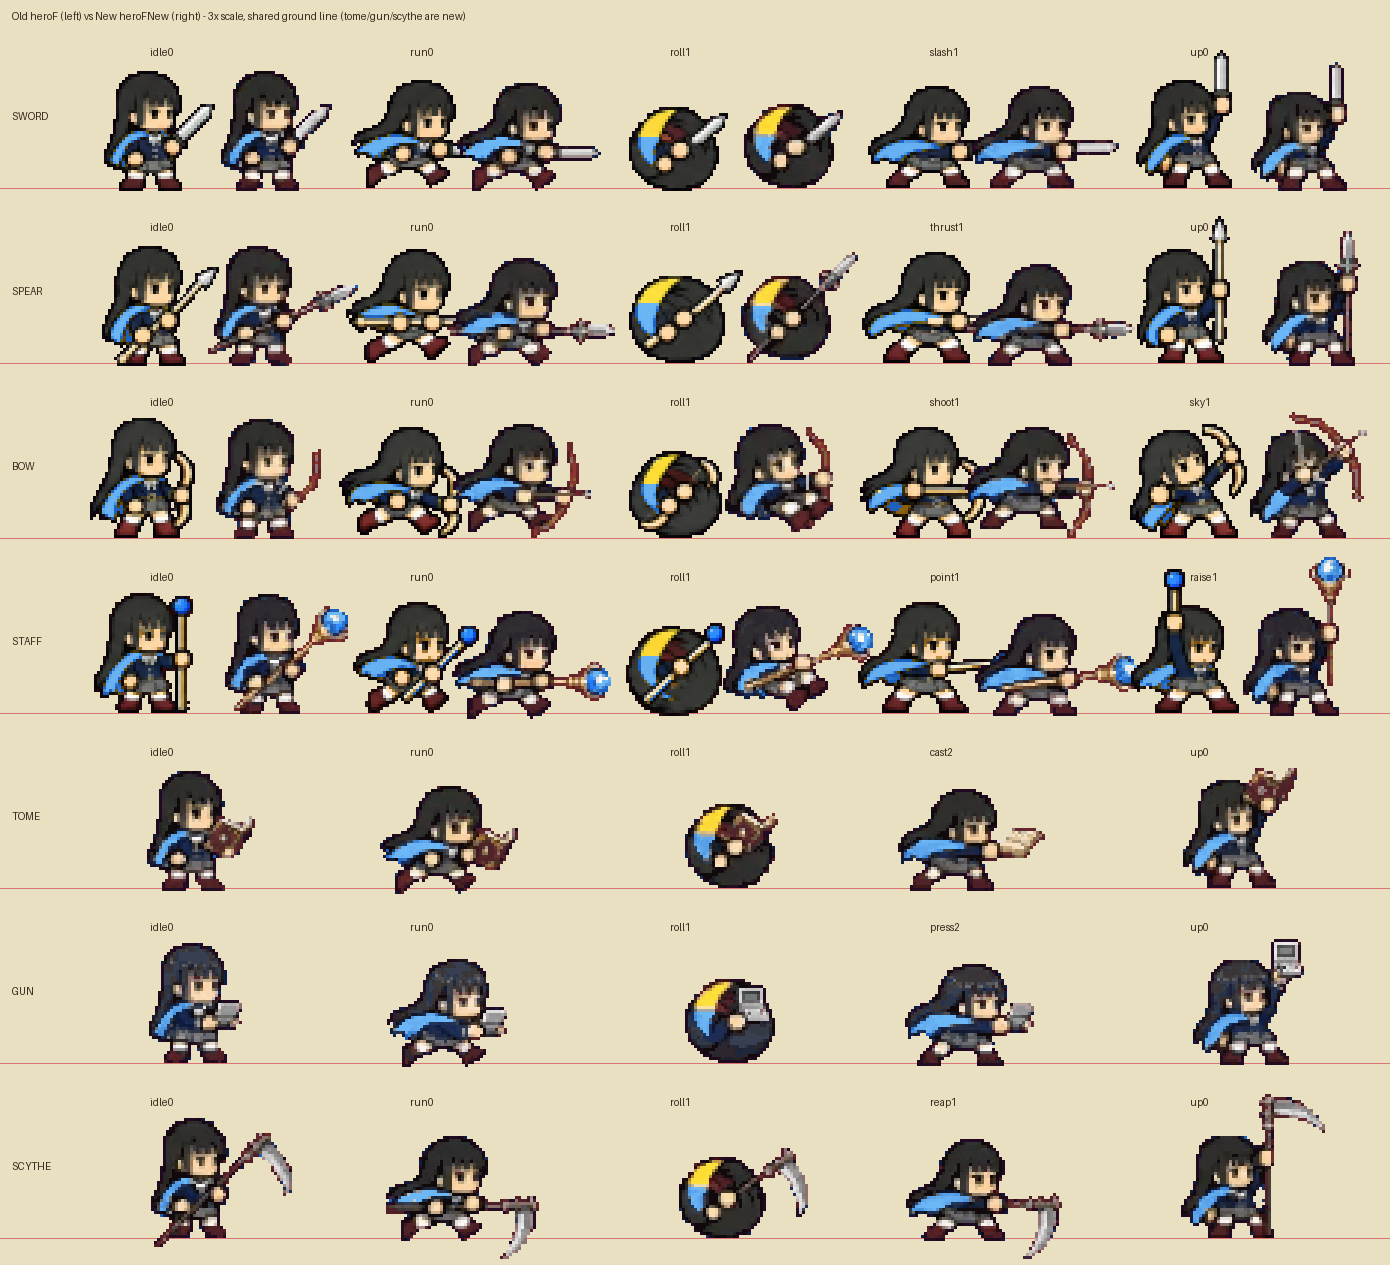
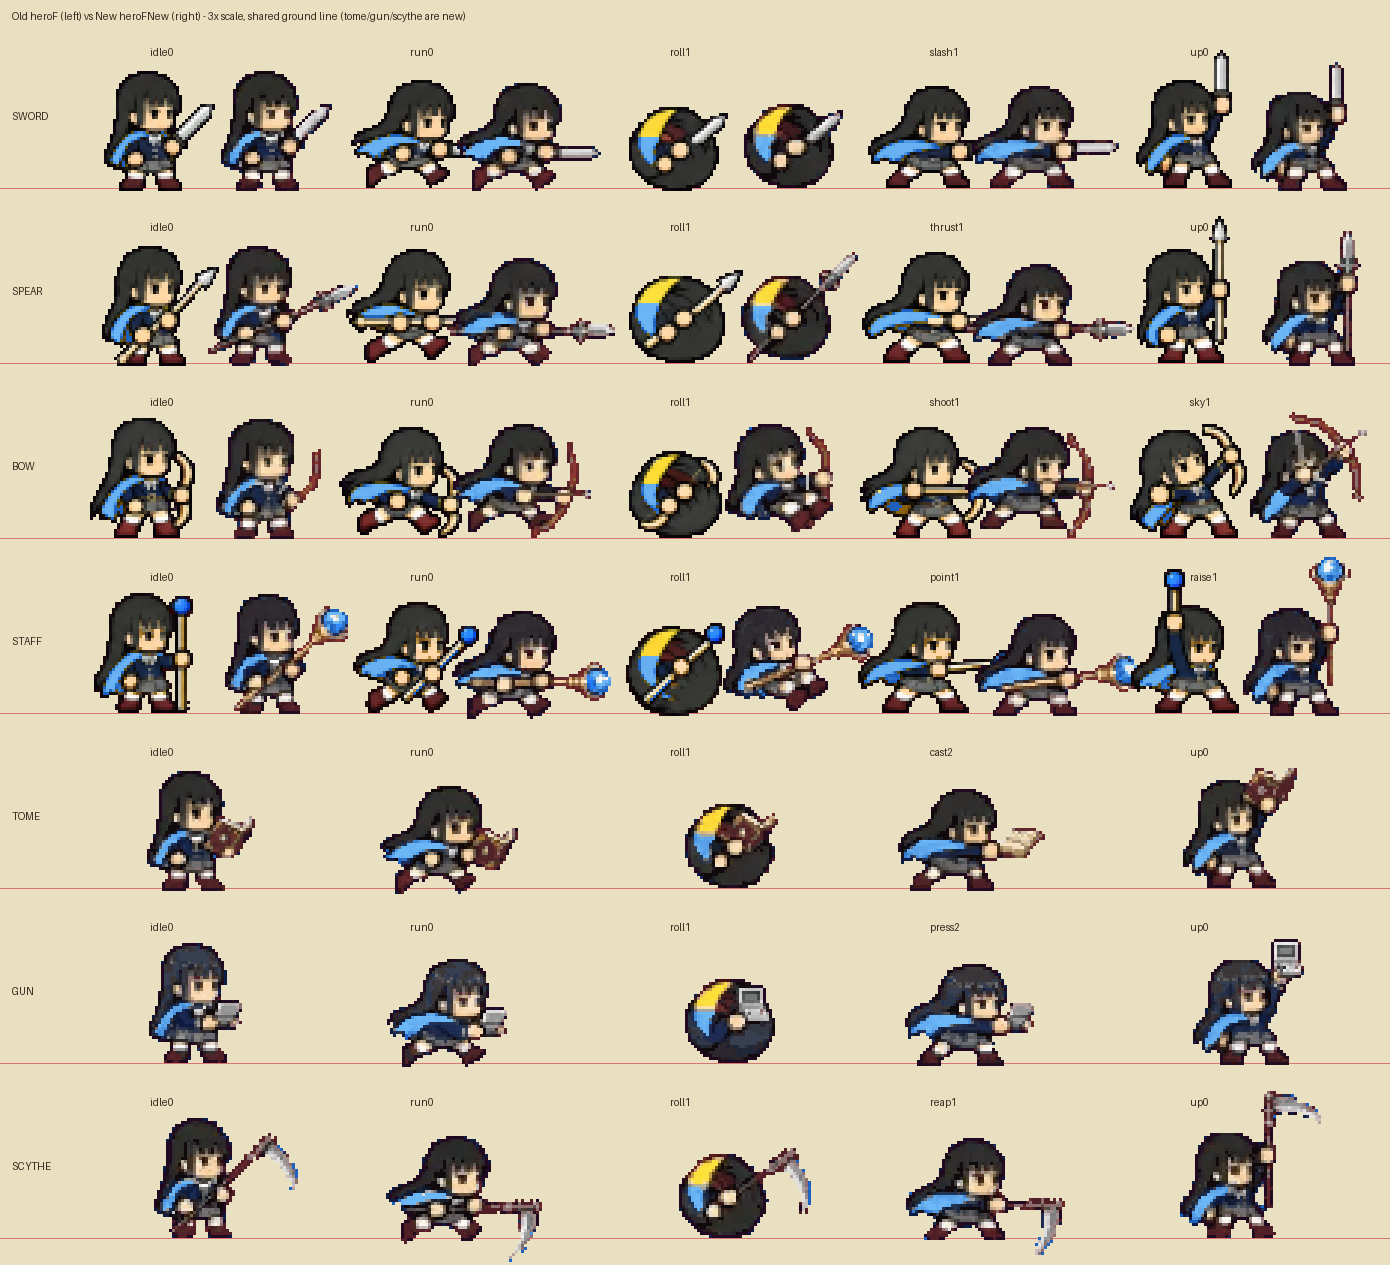
替换小凛镰刀动作帧并重新校准图集
# Conflicts:
#	docs/TODO.md

diff --git a/tools/pixel/build_heroF_new.py b/tools/pixel/build_heroF_new.py
@@ -20,7 +20,7 @@ SOURCES = {
     "staff": SRC_DIR / "media_1795798116744_3119fc45.webp",
     "tome": SRC_DIR / "media_1795798116743_cb4eefc9.webp",
     "gun": SRC_DIR / "media_1795802244111_0a06ca86.webp",
-    "scythe": SRC_DIR / "media_1795798116743_09432bf7.webp",
+    "scythe": SRC_DIR / "media_1795811919277_072d51e4.webp",
 }
 
 # Exact frame index mapping verified visually on each numbered sheet against heroF + js/skframes.js

diff --git a/docs/TODO.md b/docs/TODO.md
@@ -321,7 +321,6 @@
 - 已接入 `js/sprites.js`（`SETS.heroENew`，`drawHero` 支持精灵王子原生使用 `gun`/`tome`/`scythe`）、`demo/intro.html`（`h=e`）、`demo/palace.html`、`js/ui.js` 及 `tools/frames.html`。
 - 三角色对标校准与实测（2026-11-28）：以阿远（`Gemini2Cal`，`idle0` 身高 39–40px、亮部约 200、描边约 29）为基准，微调精灵王子高光（×0.94 对齐约 200）与暗棕描边（×0.85），生成三角色 3x 同落脚线对比图 `art/compare_3heroes.png`（`tools/pixel/build_compare_3heroes.py`）。浏览器基础实测通过（0 控制台报错）：选人页小凛与精灵王子切剑/掌机正常显示且仅展示当前人物（修复精灵王子选掌机头像空白），精灵王子持剑进第 1 站实测走停、翻滚、挥剑与打箱子均无大小跳变/漂移/裁断/空白帧。
 - 精灵王子全 7 套描边与明暗精修（2026-11-28）：按阿远描边风格清理头饰/发尖/披风/弓身紫红背景残色，补齐缩放后连续 1px 深棕外描边 `(58,34,24)`，略压金发与浅衣大块高光（×0.90）并加深局部暗部（×0.92），同步更新 `art/heroENew/atlas.{png,json}`、`compare.png` 及 `art/compare_3heroes.png`。小凛核查无紫红杂点与断边，保持现状。
-
 ## 上线前基础复核（2026-11-28）
 - 复核c830f9c角色改动与三角色对比图，新小凛和精灵七武器图集坐标均无越界。
 - 使用已有Chrome短时检查两角色持剑走停/翻滚/自动攻击，无页面脚本错误；390px竖屏无横向溢出。未逐招跑全武器。
@@ -336,3 +335,6 @@
 - 圣典起手可选圣页飞舞/审判之剑，镰刀可选收割/回旋飞镰。
 - 三把武器尚无专属选人技能书封面，暂用各自已有技能图标补齐选人及书系入口，修复掌机缺图。
 - 基础检查：1280px电脑及390px竖屏七武器入口、三把新武器切换和图标加载正常，无页面脚本错误；已知con.png缺失仍待处理。
+
+## 小凛镰刀替换（2026-11-28）
+- 用新上传的 24 帧镰刀图集替换 `art/heroFNew` 镰刀动作帧（缩放倍率 `0.4663`，`idle0` 身高 `40.0px`），重新校准色板、身高与锚点并同步更新 `art/heroFNew/compare.png` 与 `art/compare_3heroes.png`。
